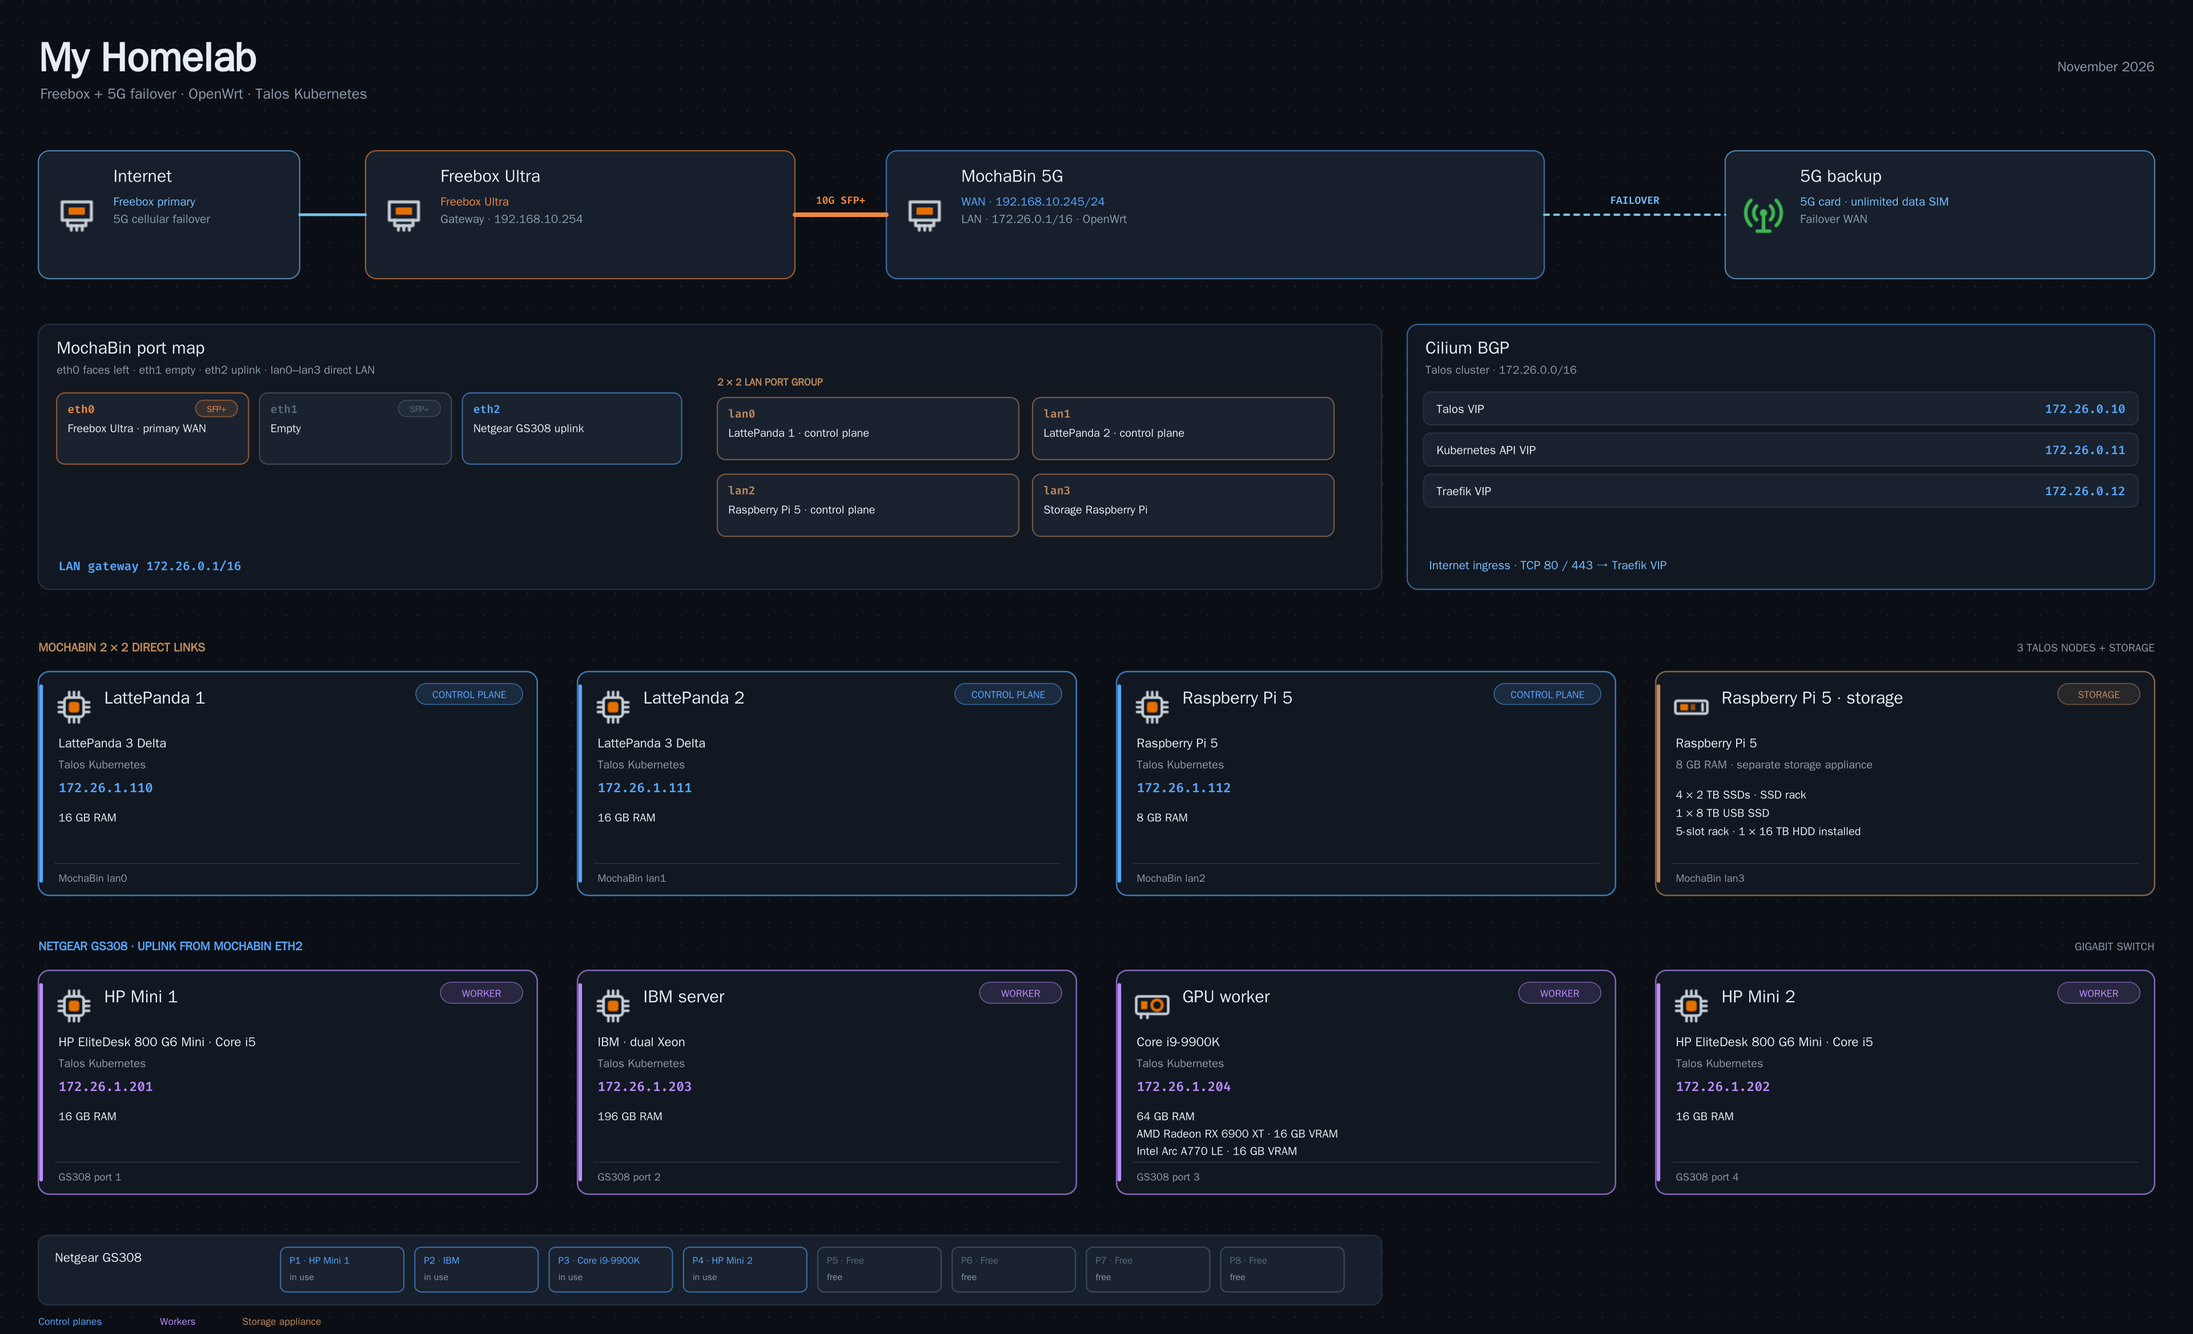
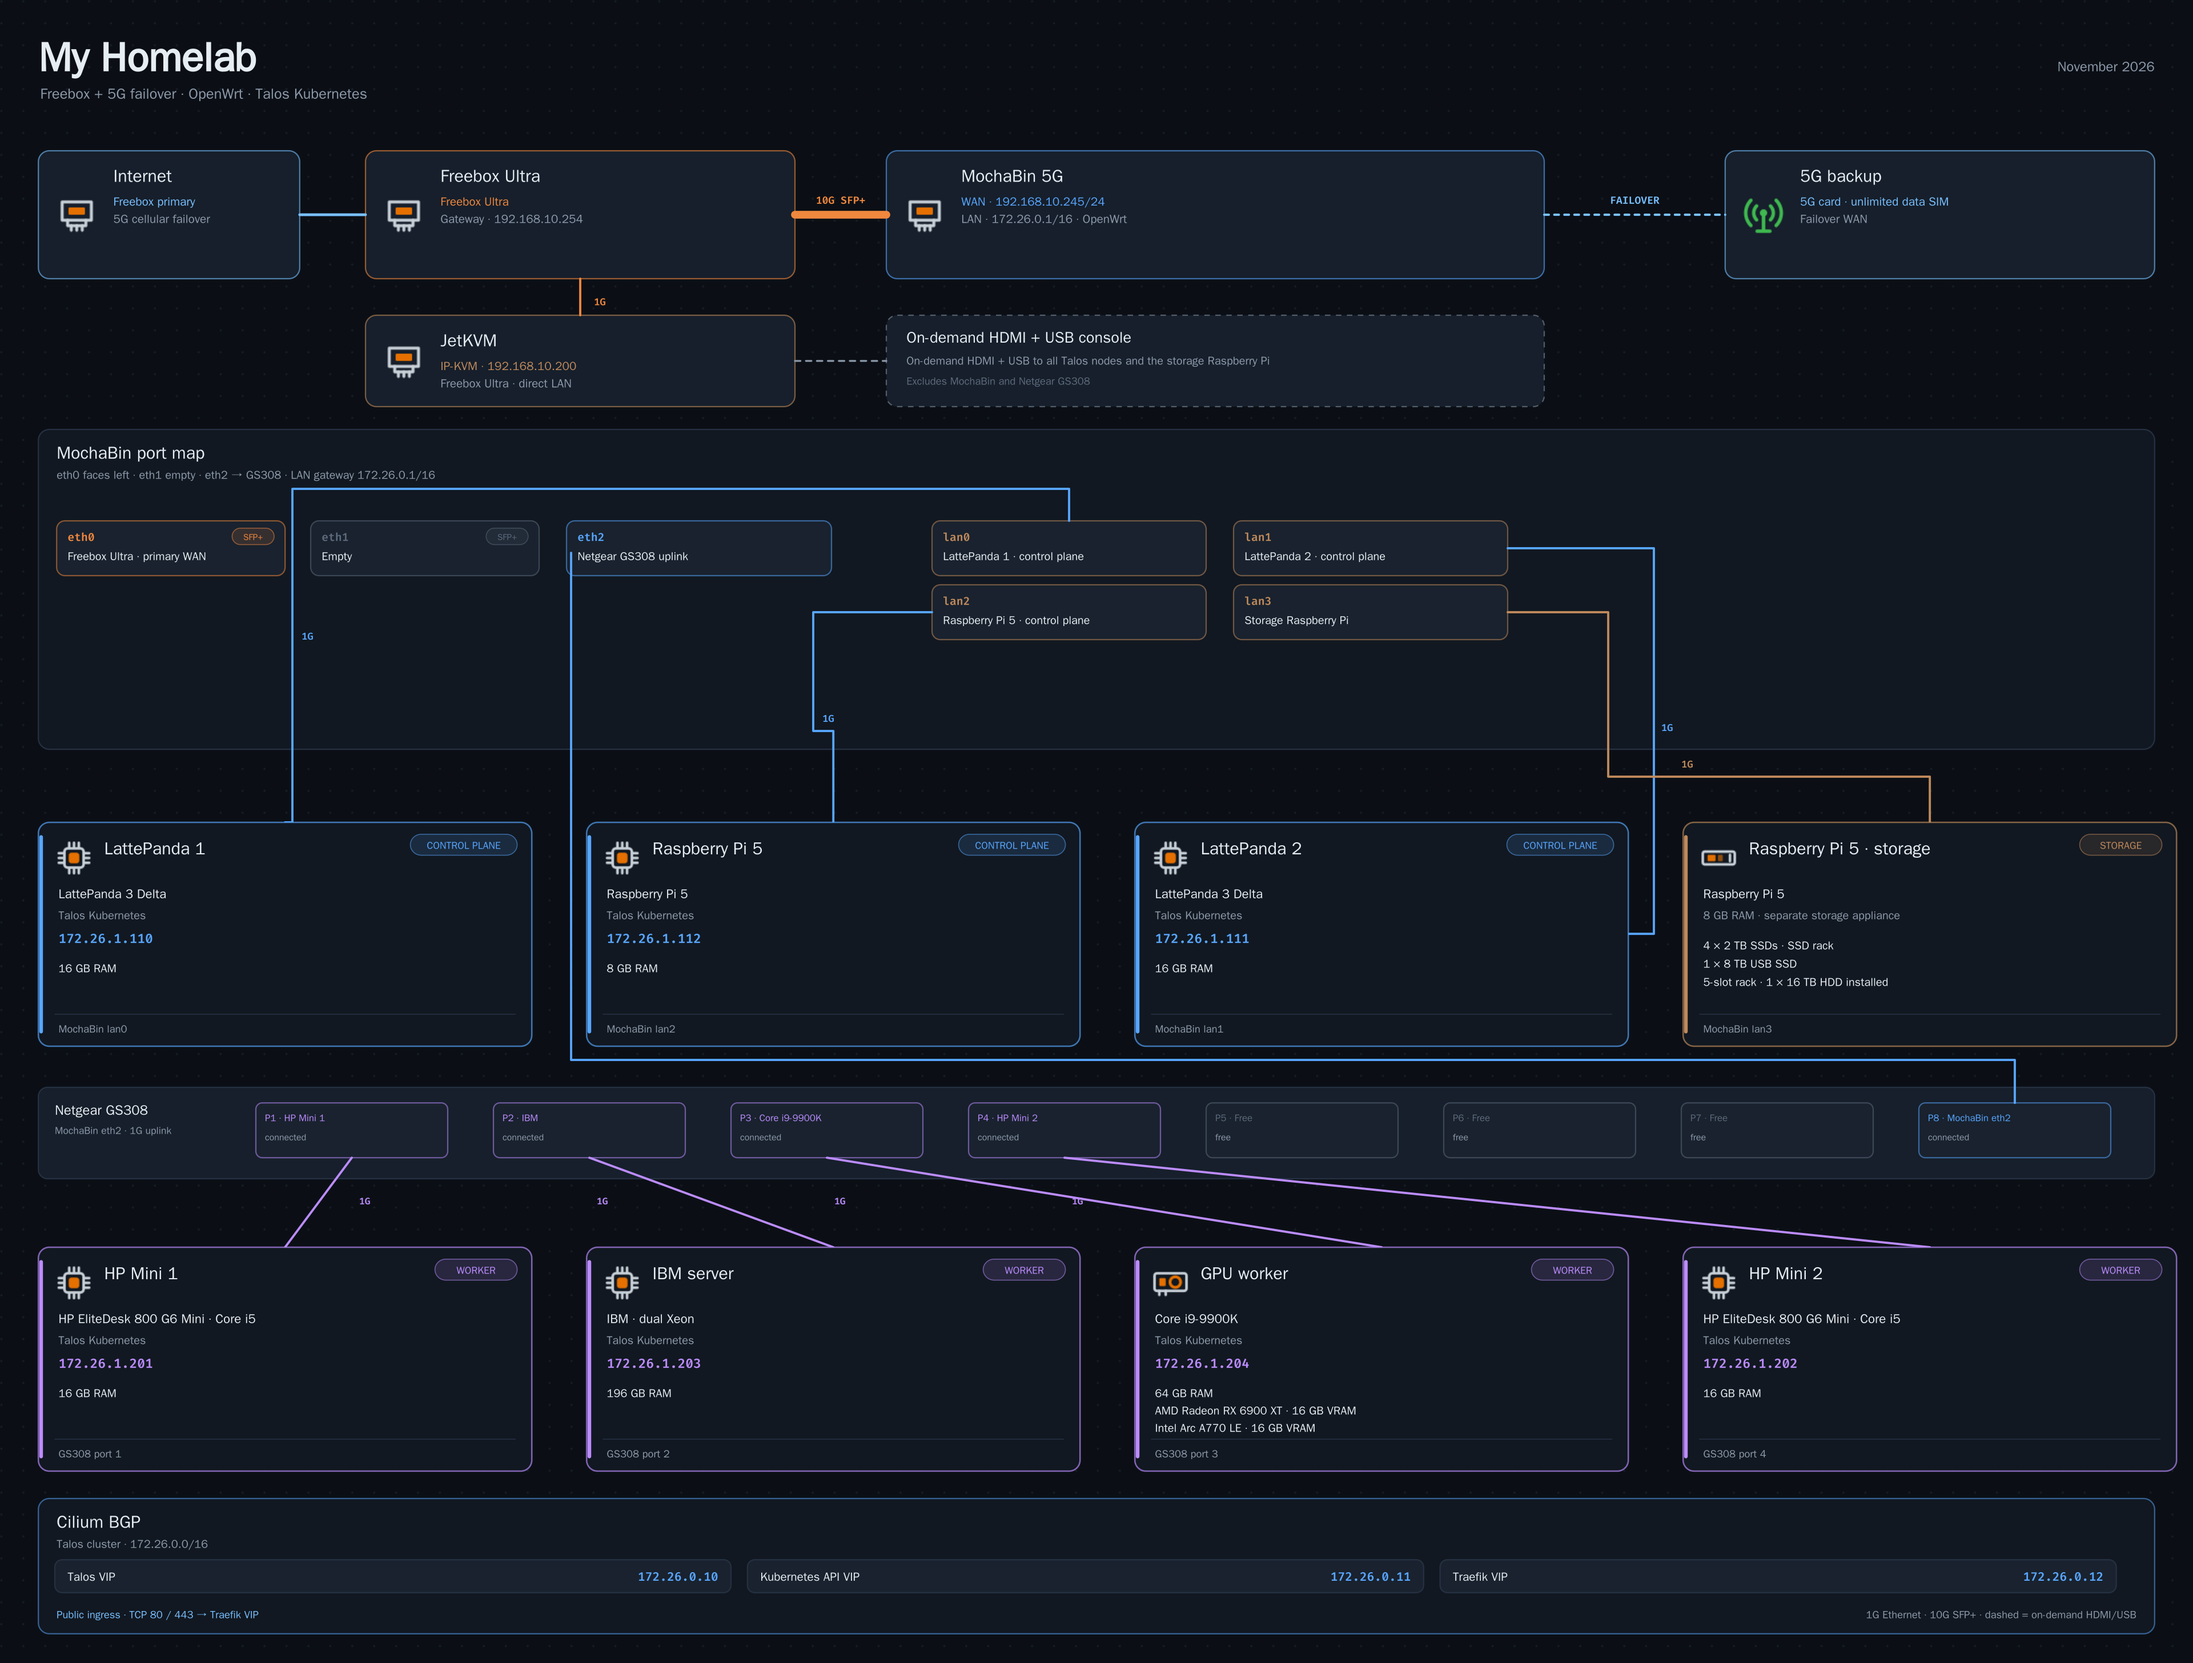
Restore visible network links and port layout (#2)
Add JetKVM details and speed-labeled visible cabling, preserve the MochaBin's physical 2x2 LAN port layout, and update the generated diagram.

diff --git a/build.py b/build.py
@@ -14,7 +14,7 @@ ICONS = ROOT / "icons"
 OUT = ROOT / "out"
 UNREDACTED = "--unredacted" in sys.argv
 
-W, H = 2400, 1460
+W, H = 2400, 1820
 BG = "#0b0f15"
 GRID = "#151c26"
 PANEL = "#111821"
@@ -30,6 +30,7 @@ WORKER = "#bc8cff"
 STORAGE = "#c08a5c"
 WAN = "#f0883e"
 TRUNK = "#d5dde6"
+SPEED_W = {"1G": 2.4, "10G": 8.5}
 
 
 class SVG:
@@ -174,75 +175,115 @@ endpoint(
 )
 endpoint(1888, 165, 470, 140, "5G backup", ["5G card · unlimited data SIM", "Failover WAN"], "glyph-antenna", LINK)
 S.line([(328, 235), (400, 235)], LINK, 3)
-S.line([(870, 235), (970, 235)], WAN, 5)
+S.line([(870, 235), (970, 235)], WAN, SPEED_W["10G"])
 S.text(920, 223, INV["freebox"]["link"], 11, WAN, 600, anchor="middle", mono=True)
 S.line([(1690, 235), (1888, 235)], LINK, 2.5, dash="5 6")
 S.text(1789, 223, "FAILOVER", 11, LINK, 600, anchor="middle", mono=True)
 
-# MochaBin port map
-px, py, pw, ph = 42, 355, 1470, 290
+# JetKVM: Ethernet to the Freebox; dashed link represents on-demand console access.
+jetkvm = INV["jetkvm"]
+endpoint(
+    400, 345, 470, 100, jetkvm["name"],
+    [f"{jetkvm['type']} · {jetkvm['ip']}", jetkvm["connection"]],
+    "glyph-nic", STORAGE
+)
+S.line([(635, 305), (635, 345)], WAN, SPEED_W["1G"])
+S.text(650, 334, INV["network"]["ethernet_speed"], 10.5, WAN, 600, mono=True)
+S.rect(970, 345, 720, 100, fill=PANEL2, stroke=MUTED + "88", dash="6 6")
+S.text(992, 375, "On-demand HDMI + USB console", 17, TEXT, 600)
+S.text(992, 399, jetkvm["console"], 12.5, MUTED, 400)
+S.text(992, 421, f"Excludes {jetkvm['excludes']}", 11.5, FAINT, 500)
+S.line([(870, 395), (970, 395)], MUTED, 2, dash="6 6")
+
+# MochaBin interfaces. The LAN jacks mirror the physical 2 × 2 layout.
+px, py, pw, ph = 42, 470, 2316, 350
 mochabin_ports = INV["mochabin"]["ports"]
-panel(px, py, pw, ph, "MochaBin port map", "eth0 faces left · eth1 empty · eth2 uplink · lan0–lan3 direct LAN")
-port_box(62, 430, 210, 78, "eth0", mochabin_ports["eth0"], WAN, "SFP+")
-port_box(284, 430, 210, 78, "eth1", mochabin_ports["eth1"], FAINT, "SFP+")
-port_box(506, 430, 240, 78, "eth2", mochabin_ports["eth2"], CP)
-S.text(785, 422, "2 × 2 LAN PORT GROUP", 11, STORAGE, 700)
-lan_ports = [
-    ("lan0", mochabin_ports["lan0"]),
-    ("lan1", mochabin_ports["lan1"]),
-    ("lan2", mochabin_ports["lan2"]),
-    ("lan3", mochabin_ports["lan3"]),
-]
-for i, (label, target) in enumerate(lan_ports):
+panel(
+    px, py, pw, ph, "MochaBin port map",
+    f"eth0 faces left · eth1 empty · eth2 → GS308 · LAN gateway {INV['network']['gateway']}/16"
+)
+port_box(62, 570, 250, 60, "eth0", mochabin_ports["eth0"], WAN, "SFP+")
+port_box(340, 570, 250, 60, "eth1", mochabin_ports["eth1"], FAINT, "SFP+")
+port_box(620, 570, 290, 60, "eth2", mochabin_ports["eth2"], CP)
+for i, (label, target) in enumerate(
+    (("lan0", mochabin_ports["lan0"]), ("lan1", mochabin_ports["lan1"]),
+     ("lan2", mochabin_ports["lan2"]), ("lan3", mochabin_ports["lan3"]))
+):
     col, row = i % 2, i // 2
-    port_box(785 + col * 345, 435 + row * 84, 330, 68, label, target, STORAGE)
-S.text(px + 22, py + ph - 21, "LAN gateway 172.26.0.1/16", 13, CP, 600, mono=True)
+    port_box(1020 + col * 330, 570 + row * 70, 300, 60, label, target, STORAGE)
 
-# Cilium / VIPs / ingress
-bx, by, bw, bh = 1540, 355, 818, 290
-panel(bx, by, bw, bh, "Cilium BGP", f"Talos cluster · {INV['network']['subnet']}", stroke=CP + "88")
-for i, vip in enumerate(INV["bgp"]["vip_services"]):
-    yy = by + 74 + i * 45
-    S.rect(bx + 18, yy, bw - 36, 36, fill=CHIP, stroke=BORDER, rx=8)
-    S.text(bx + 32, yy + 23, vip["name"], 13, TEXT, 500)
-    S.text(bx + bw - 32, yy + 23, vip["ip"], 13, CP, 600, anchor="end", mono=True)
-S.text(bx + 24, by + bh - 22, "Internet ingress · TCP 80 / 443 → Traefik VIP", 13, LINK, 600)
-
-# Kubernetes nodes
+# Server cards and their physical Ethernet paths.
 nodes = INV["nodes"]
 direct = by_port([n for n in nodes if n["group"] == "MochaBin direct"], r"lan(\d+)")
-lan_storage = dict(INV["storage"], name=INV["storage"]["name"], role="Storage", model=INV["storage"]["model"],
-                   connection=INV["storage"]["connection"], storage=True)
+lan_storage = dict(
+    INV["storage"], name=INV["storage"]["name"], role="Storage",
+    model=INV["storage"]["model"], connection=INV["storage"]["connection"], storage=True
+)
 direct.append(lan_storage)
 sw_nodes = by_port([n for n in nodes if n["group"] == "GS308"], r"port (\d+)")
-node_xs = [42, 632, 1222, 1812]
-node_w, node_h = 546, 245
-S.text(42, 713, "MOCHABIN 2 × 2 DIRECT LINKS", 13, STORAGE, 700)
-S.text(2358, 713, "3 TALOS NODES + STORAGE", 12, MUTED, 500, "end")
-for i, node in enumerate(direct):
-    node_card(node, node_xs[i], 735, node_w, node_h)
+node_xs = [42, 642, 1242, 1842]
+node_w, node_h = 540, 245
+direct_y, switch_y = 900, 1365
 
-S.text(42, 1040, "NETGEAR GS308 · UPLINK FROM MOCHABIN ETH2", 13, CP, 700)
-S.text(2358, 1040, "GIGABIT SWITCH", 12, MUTED, 500, "end")
-for i, node in enumerate(sw_nodes):
-    node_card(node, node_xs[i], 1062, node_w, node_h)
+direct_links = [
+    ([(1170, 570), (1170, 535), (320, 535), (320, direct_y), (312, direct_y)], CP, 330, 700),
+    ([(1650, 600), (1810, 600), (1810, direct_y + 122), (1782, direct_y + 122)], CP, 1818, 800),
+    ([(1020, 670), (890, 670), (890, 800), (912, 800), (912, direct_y)], CP, 900, 790),
+    ([(1650, 670), (1760, 670), (1760, 850), (2112, 850), (2112, direct_y)], STORAGE, 1840, 840),
+]
+for points, color, label_x, label_y in direct_links:
+    S.line(points, color, SPEED_W["1G"])
+    S.text(label_x, label_y, INV["network"]["ethernet_speed"], 10.5, color, 600, mono=True)
 
-# Switch port map
-sx, sy, sw, sh = 42, 1352, 1470, 76
+# GS308 port map. Port 8 is the eth2 uplink; ports 1–4 serve the workers.
+sx, sy, sw, sh = 42, 1190, 2316, 100
 S.rect(sx, sy, sw, sh, fill=PANEL2, stroke=BORDER, rx=10)
-S.text(sx + 18, sy + 29, INV["switch"]["name"], 14, TEXT, 600)
+S.text(sx + 18, sy + 30, INV["switch"]["name"], 15, TEXT, 600)
+S.text(sx + 18, sy + 51, f"{INV['switch']['uplink']} · 1G uplink", 11, MUTED, 500)
+switch_port_x = 280
+switch_port_step = 260
+switch_port_w = 210
 for i, port in enumerate(INV["switch"]["ports"]):
-    cx = sx + 265 + i * 147
-    color = CP if port["to"] != "Free" else FAINT
+    x = switch_port_x + i * switch_port_step
+    color = FAINT if port["to"] == "Free" else CP if "MochaBin" in port["to"] else WORKER
     target = port["to"].split(" · ")[0]
     target = target.replace("HP EliteDesk 800 G6 Mini", "HP Mini 2").replace("IBM dual-Xeon", "IBM")
-    S.rect(cx, sy + 13, 135, 49, fill=CHIP, stroke=color + "88", rx=7)
-    S.text(cx + 10, sy + 31, f"P{port['port']} · {target}", 10.5, color, 600)
-    S.text(cx + 10, sy + 49, "in use" if port["to"] != "Free" else "free", 10, MUTED, 400)
+    S.rect(x, sy + 17, switch_port_w, 60, fill=CHIP, stroke=color + "88", rx=7)
+    S.text(x + 10, sy + 37, f"P{port['port']} · {target}", 10.5, color, 600)
+    S.text(x + 10, sy + 58, "free" if port["to"] == "Free" else "connected", 10, MUTED, 400)
 
-S.text(42, 1450, "Control planes", 11, CP, 600)
-S.text(175, 1450, "Workers", 11, WORKER, 600)
-S.text(265, 1450, "Storage appliance", 11, STORAGE, 600)
+# Visible 1G cable from eth2 through the gap between the direct nodes to switch port 8.
+uplink_x = switch_port_x + 7 * switch_port_step + switch_port_w / 2
+S.line([(625, 605), (625, 1160), (uplink_x, 1160), (uplink_x, sy + 17)], CP, SPEED_W["1G"])
+
+for i, node in enumerate(sw_nodes):
+    port_number = int(node["connection"].rsplit(" ", 1)[1])
+    source_x = switch_port_x + (port_number - 1) * switch_port_step + switch_port_w / 2
+    target_x = node_xs[i] + node_w / 2
+    S.line([(source_x, sy + 77), (target_x, switch_y)], WORKER, SPEED_W["1G"])
+    S.text(source_x + 8, 1318, INV["network"]["ethernet_speed"], 10, WORKER, 600, mono=True)
+
+direct_node_xs = [node_xs[0], node_xs[2], node_xs[1], node_xs[3]]
+for i, node in enumerate(direct):
+    node_card(node, direct_node_xs[i], direct_y, node_w, node_h)
+for i, node in enumerate(sw_nodes):
+    node_card(node, node_xs[i], switch_y, node_w, node_h)
+
+# Cilium / VIPs / ingress
+bx, by, bw, bh = 42, 1640, 2316, 148
+panel(bx, by, bw, bh, "Cilium BGP", f"Talos cluster · {INV['network']['subnet']}", stroke=CP + "88")
+vip_width = 740
+for i, vip in enumerate(INV["bgp"]["vip_services"]):
+    x = bx + 18 + i * 758
+    S.rect(x, by + 67, vip_width, 36, fill=CHIP, stroke=BORDER, rx=8)
+    S.text(x + 14, by + 90, vip["name"], 13, TEXT, 500)
+    S.text(x + vip_width - 14, by + 90, vip["ip"], 13, CP, 600, anchor="end", mono=True)
+S.text(bx + 20, by + 131, "Public ingress · TCP 80 / 443 → Traefik VIP", 11.5, LINK, 600)
+S.text(
+    bx + bw - 20, by + 131,
+    "1G Ethernet · 10G SFP+ · dashed = on-demand HDMI/USB",
+    11.5, MUTED, 500, "end"
+)
 
 OUT.mkdir(exist_ok=True)
 name = "homelab-unredacted" if UNREDACTED else "homelab"

diff --git a/CLAUDE.md b/CLAUDE.md
@@ -7,7 +7,7 @@ Start by telling the user briefly how this works (interview → inventory → la
 ## How the repo works
 
 - `inventory.yaml` – topology, IP assignments, router and switch ports, Talos nodes, BGP VIPs, ingress ports, and storage devices.
-- `build.py` – draws the hand-placed SVG layout (logical canvas `W = 2400`, `H = 1460`), embeds icons as base64, and converts it to PNG with `rsvg-convert -z 1.6`.
+- `build.py` – draws the hand-placed SVG layout (logical canvas `W = 2400`, `H = 1820`), embeds icons as base64, and converts it to PNG with `rsvg-convert -z 1.6`.
 - `icons/glyph-*.svg` – local hardware icons used by this diagram; no icon download is needed.
 - Output: `out/homelab.png` and `out/homelab.svg`. The diagram contains private network addresses; `--unredacted` only writes a second copy with an `-unredacted` filename.
 
@@ -18,7 +18,7 @@ Inventory-driven content includes device models and addresses, router and switch
 | Section (search for) | What's fixed | Typical change |
 |---|---|---|
 | `# Internet edge` | ISP, router, and 5G failover card positions | move or resize WAN devices |
-| `# MochaBin port map` | `eth0`/`eth1` SFP+ badges, `eth2`, and `lan0`–`lan3` positions | adjust port layout or target labels |
+| `# MochaBin port map` | `eth0`/`eth1` SFP+ badges, `eth2`, and the physical 2×2 `lan0`–`lan3` grid | adjust port layout or target labels |
 | `# Cilium / VIPs / ingress` | VIP list and ingress panel | add or remove cluster services |
 | `# Kubernetes nodes` | two four-card rows and their spacing | add nodes or rearrange connection groups |
 | `# Switch port map` | eight compact port cards | change switch size or port labels |
